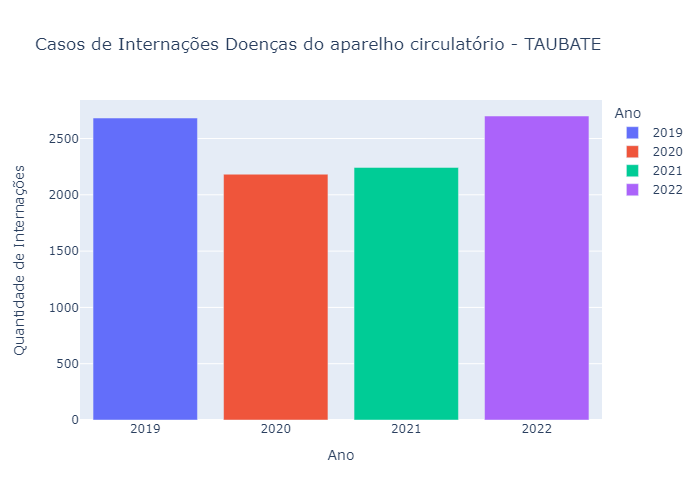
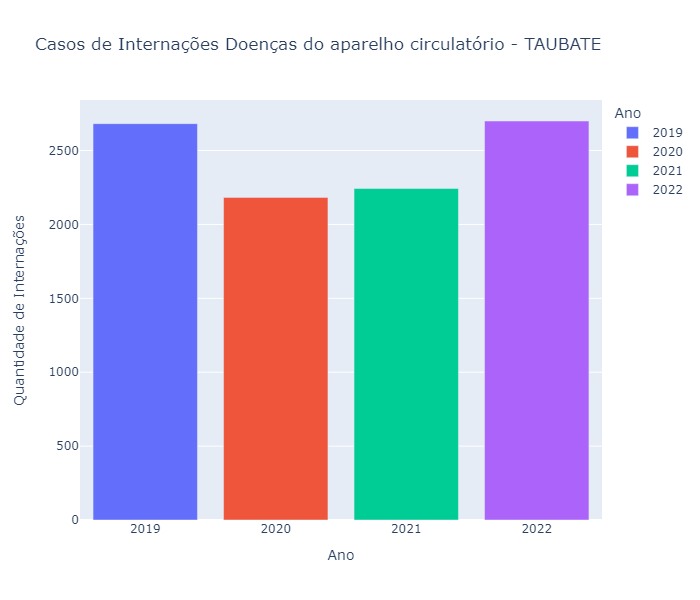
Correção no tamanho dos gráficos, adicionado script pra realizar os gráficos de gastos de Taubaté

diff --git a/src/Gráficos/graficossintomas.py b/src/Gráficos/graficossintomas.py
@@ -2,20 +2,20 @@ import pandas as pd
 import plotly.express as px
 import os
 
-if not os.path.exists("src\Gráficos\Gráficos Sintomas"):
-    os.mkdir("src\Gráficos\Gráficos Sintomas")
+if not os.path.exists("C:/Users/Fatec/Documents/GitHub/API/src/Gráficos/Gráficos Sintomas"):
+    os.mkdir("C:/Users/Fatec/Documents/GitHub/API/src/Gráficos/Gráficos Sintomas")
 
 caps = ['Cap 06', 'Cap 09', 'Cap 10', 'Cap 11']
 capsdesc = ['Doenças do sistema nervoso', 'Doenças do aparelho circulatório', 'Doenças do aparelho respiratório', 'Doenças do aparelho digestivo']
 anos = ['2019', '2020', '2021', '2022']
 cidades = ['350250 APARECIDA', '350850 CACAPAVA', '352440 JACAREI', '354990 SAO JOSE DOS CAMPOS', '355410 TAUBATE']
-
+cidadesnome = ['APARECIDA', 'CACAPAVA', 'JACAREI', 'SJC', 'TAUBATE']
 for cidade in cidades:
     for cap in caps:
         dados = []
         anosg = []
         for ano in anos:
-            df = pd.read_csv(f"src\Gráficos\.Tabelas Consulta\dados cid10 {ano}.csv", sep=";", encoding="utf-8")
+            df = pd.read_csv(f"C:/Users/Fatec/Documents/GitHub/API/src/Gráficos/.Tabelas Internações/dados cid10 {ano}.csv", sep=";", encoding="utf-8")
             cidadedados = df.loc[df['Munic�pio'] == cidade]
             dados.append(cidadedados.loc[cidades.index(cidade), cap])
             anosg.append(ano)
@@ -25,8 +25,8 @@ for cidade in cidades:
                     'Quantidade de Internações': dados
                 }
                 df = pd.DataFrame.from_dict(graficodict)
-                fig = px.bar(df, x='Ano', y='Quantidade de Internações', color='Ano', title=f'Casos de Internações {capsdesc[caps.index(cap)]} - {cidade[7:]}')
+                fig = px.bar(df, x='Ano', y='Quantidade de Internações', color='Ano', title=f'Casos de Internações {capsdesc[caps.index(cap)]} - {cidadesnome[cidades.index(cidade)]}', width=700, height=600)
                 fig.show()
-                fig.write_image(f"src\Gráficos/Gráficos Sintomas/Casos de Internações_{capsdesc[caps.index(cap)]}-{cidade[7:]}.png")
+                fig.write_image(f"C:/Users/Fatec/Documents/GitHub/API/src/Gráficos/Gráficos Sintomas/Casos de Internações_{capsdesc[caps.index(cap)]}-{cidade[7:]}.png")
             else:
                 pass

diff --git a/Dados/Dados de gastos/Taubate/graficogastos.py b/Dados/Dados de gastos/Taubate/graficogastos.py
@@ -1,0 +1,27 @@
+import plotly.express as px
+import pandas as pd
+
+anos = ["2019", "2020", "2021", "2022"]
+valores = []
+for ano in anos:
+    print(ano)
+    valoresano =[]
+    with open(f"os5maioresgastos{ano}.csv") as arquivo:
+        for linha in arquivo.readlines():
+            print(linha, end="")
+            valoresano.append(float(linha))
+        valoresano.pop(0)
+        valores.append(valoresano)
+
+print(anos, valores)
+
+graficodict = {
+    "Anos":anos,
+    "Gasto":valores
+}
+
+df = pd.DataFrame.from_dict(graficodict)
+
+fig = px.bar(df, x="Anos", y="Gasto")
+
+fig.show()

diff --git a/Dados/Dados de gastos/Taubate/os5maioresgastosporano.py b/Dados/Dados de gastos/Taubate/os5maioresgastosporano.py
@@ -18,12 +18,9 @@ for ano in anos:
             valor = valor.replace(".", "").replace(",", ".")
             valores.append(float(valor))
     
-    with open(f"os5maioresgastostaubate{ano}.txt", "a") as arquivo:
+    with open(f"os5maioresgastos{ano}.csv", "a") as arquivo:
         c = 0
         for valor in sorted(valores, reverse=True)[:6]:
-            if c == 0:
-                arquivo.write(f"{c}, {valor} - TOTAL\n")
-            else:
-                arquivo.write(f"{c}, {valor}\n")
+            arquivo.write(f"{valor}\n")
             print(c, valor)
             c += 1
